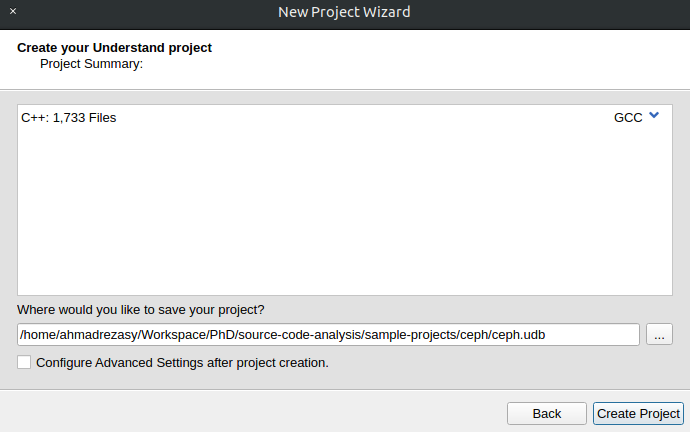
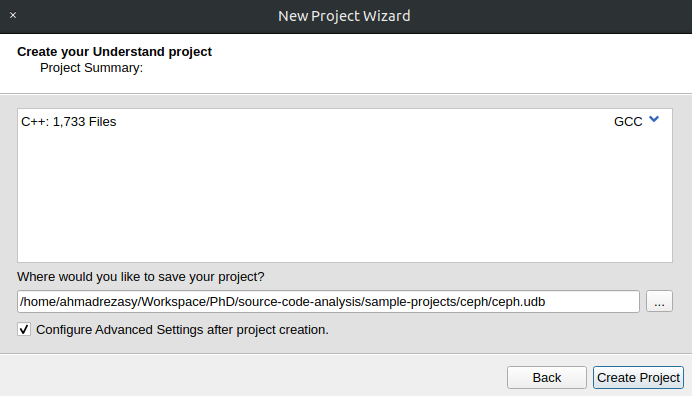
update documentations for java support

Changed region(s): [[0.0, 0.6364, 1.0, 1.0], [0.0, 0.0, 1.0, 0.3333]]

diff --git a/Readme.md b/Readme.md
@@ -2,7 +2,7 @@
 
 ## Introduction
 
-This project aims to extract and compute source-code-related features from a C/C++ software repository. It analyzes the source code based on static and version control history aspects and creates a dependency graph containing the relationships between files/functions and their association weights. The ultimate goal of extracting these features is for sloving the  test case selection and prioritization problems.
+This project aims to extract and compute source-code-related features from a software repository. It analyzes the source code based on static and version control history aspects and creates a dependency graph containing the relationships between files/functions and their association weights. The ultimate goal of extracting these features is for sloving the  test case selection and prioritization problems.
 
 ## Instructions for Obtaining Understand Database
 ### Understand
@@ -13,8 +13,10 @@ In this section, we explain how to obtain the Understand database, a file with `
 ### Adding Understand Python Package/Library
 Unlike typical projects, Understand doesn't provide its Python library in the well-known pip package installer, and you need to manually add the package to your Python environment. The instructions of adding the package are explained in [this link](https://scitools.com/support/python-api/).
 
-### Creating Accurate C/C++ Understand Databases
+### Creating Accurate Understand Databases
 Before moving forward to creating an Understand project, it's worth to pay attention to some points. On [this page](https://scitools.com/support/creating-accurate-cc-projects/), it is explained how to create accurate C/C++ Understand projects including a couple of solutions. Due to the common use of cmake in C/C++ projects and its simplicity, we recommend to follow the cmake solution explained in [this link](https://scitools.com//support/cmake-and-understand/). Using the method would omit all unnessary scripts and files that are not considered. In a nutshell, cmake's `CMAKE_EXPORT_COMPILE_COMMANDS` attribute should be set to `ON` so that cmake generates the `compile_commands.json` file which improves Understand's accuracy significantly.
+
+Additionally, for accurate Java projects, Understand mentions importing the complete classpaths used in your project. For more details visit [this page](https://scitools.com/support/creating-accurate-java-projects/).
 
 ### Creating Understand Database Using the GUI
 The following instructions are for creating an Understand database using the `compile_commands.json` file generated by the cmake command in C/C++ projects. If this approach does not apply to your project, you can checkout Understand's official documents in [this link](https://scitools.com/support/) and find the best method for your project.
@@ -29,12 +31,15 @@ The following instructions are for creating an Understand database using the `co
 
 ![Import settings](docs/gui-wizard-2.png)
 
-- In this step, you can set the path to save the database file after Understand's analysis. You can also view how many source files Understand has detected. Finally, click on Create Project and wait for the analysis to complete.
+- In this step, you can set the path to save the database file after Understand's analysis. You can also view how many source files Understand has detected. Make sure you have checked the "Configure Advanced Settings" checkbox. Finally, click on Create Project.
 
 ![Summary](docs/gui-wizard-3.png)
 
-### Creating Understand Database Using the CLI
-- TODO ([official docs](https://scitools.com/support/commandline))
+- In the configuration window you can set all the available settings for your project before starting the code analysis. First, click on the CMake item on the left menu and double check the existence of `compile_commands.json`. Second, you need to add the rest of the source files, and for doing that, select the File item on the menu to view the added source files. Then click on the button showed in the following picture and add the root directory of your project's source code. Finally, click on Ok button and wait for the analysis to complete.
+
+![Add Sources](docs/gui-wizard-4.png)
+
+Note that creating an Understand database for Java projects similar to the above instructions, however, you don't need the compile_commands.json file for Java projects and adding the project's root directory is enough.
 
 ## Usage Instructions
 ### Arguments
@@ -45,6 +50,7 @@ Argument Name | Description | Required
 -h, --help | Shows the help message and exits. | No
 -d, --db-path | Path to Understand's database with the .udb format. | Yes
 -p, --project-path | Path to project's source code which is a git repository. | Yes
+--language | The main programming language of the project. We currently support Java and C/C++ languages and this argument's value for these languages are "java" and "c" respectively. | Yes
 -l, --level | Specifies the granularity of feature extraction. It can be one of the two "file" or "function" values. | Yes
 -o, --ouput-dir | Specifies the directory to save resulting datasets. The directory would be created if it doesn't exist. | Yes
 --branch | The git branch to analyze. The default value is "master". | No
